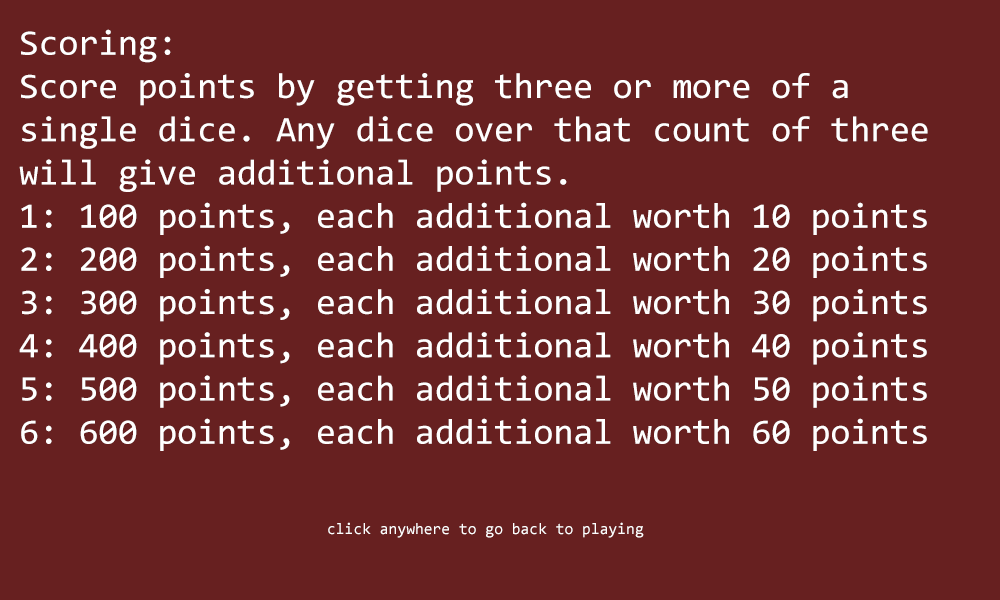
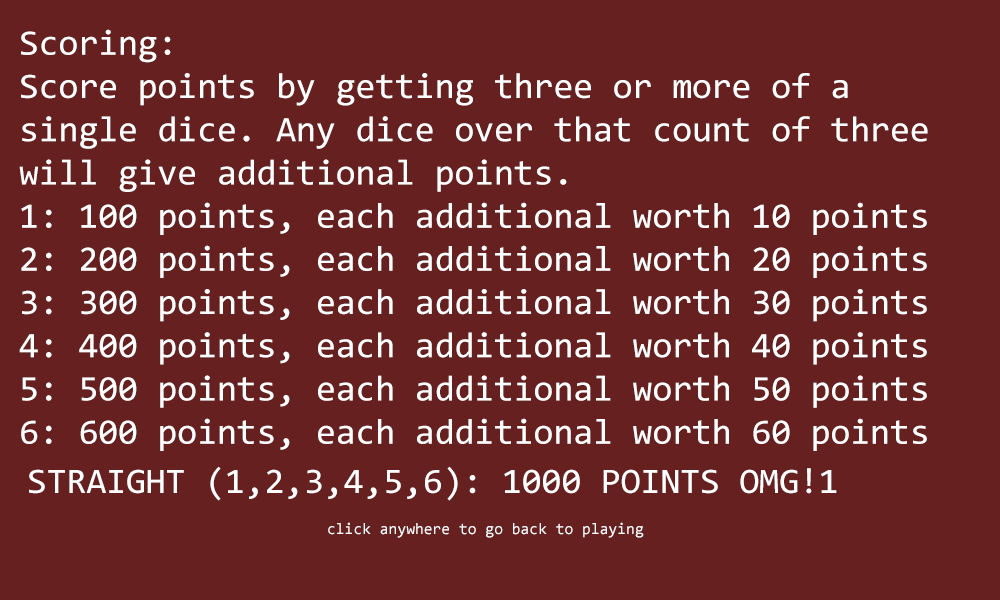
added straights

Changed region(s): [[0.031, 0.78, 0.465, 0.84], [0.496, 0.78, 0.837, 0.84]]

diff --git a/da2iteration/js/main.js b/da2iteration/js/main.js
@@ -247,6 +247,9 @@ window.onload = function() {
       if(playerCount[5] >= 3){
         playerScore += (600 + ((playerCount[5] - 3) * 60));
       }
+      if(playerCount[0] === 1 && playerCount[1] === 1 && playerCount[2] === 1 && playerCount[3] === 1 && playerCount[4] === 1 && playerCount[5] === 1){
+        playerScore += 1000;
+      }
       if(aiCount[0] >= 3){
         aiScore += (100 + ((aiCount[0] - 3) * 10));
       }
@@ -265,6 +268,9 @@ window.onload = function() {
       if(aiCount[5] >= 3){
         aiScore += (600 + ((aiCount[5] - 3) * 60));
       } 
+      if(aiCount[0] === 1 && aiCount[1] === 1 && aiCount[2] === 1 && aiCount[3] === 1 && aiCount[4] === 1 && aiCount[5] === 1){
+        aiScore += 1000;
+      }
 
       yourScoreText.setText(yourScoreText.text + "\n" + playerScore);
       aiScoreText.setText(aiScoreText.text + "\n" + aiScore);
